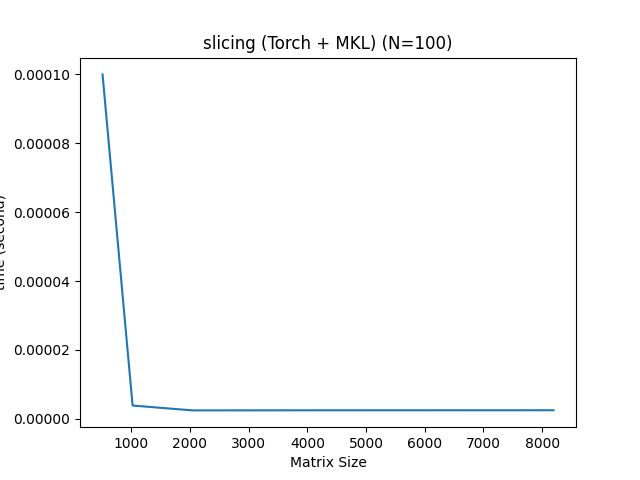
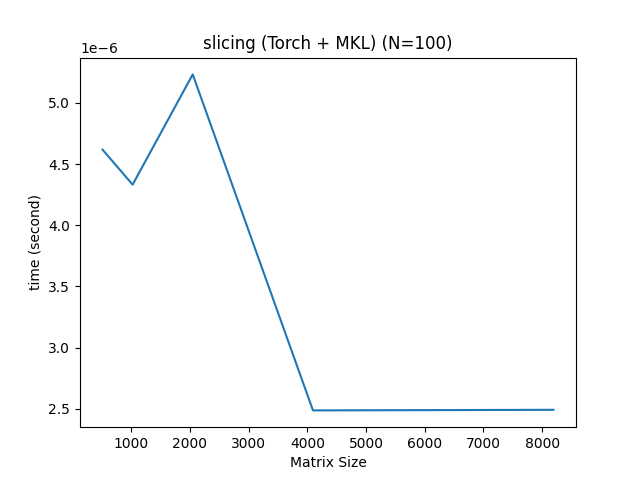
added: the latest result of benchmarks

diff --git a/benchmark/Result.md b/benchmark/Result.md
@@ -1,12 +1,22 @@
 # Benchmarking
 
-The latest benchmark is executed at 16:04:55 of Sunday, 3/26/2023 (GMT+9)
+The latest benchmark is executed at 20:26:37 of Sunday, 3/26/2023 (GMT+9)
 
 First, as a matrix arithmetic library, I measured benchmarks compared to NumPy as impartial as possible..
 
 Also, cl-waffe is also a deep learning framework. Benchmakrs compared to PyTorch is available.
 
 ⚠ cl-waffe and numpy are working on a different backends, openblas and mkl respectively. The author didn't know how to use numpy in OpenBLAS... So the result may be inaccuracy...
+
+** I think this benchmark is unfair in term of threads. Keep in mind that in practice cl-waffe still has a lot of room for optimisation and numpy/python can perform better**
+
+Also, cl-waffe is still under development and yet parallelised enough.
+
+To run benchmark on your computer:
+
+```shell
+$ lake benchmark-python
+```
 
 ## Machine Environments
 
@@ -23,7 +33,7 @@ all benchmark is working on single-float(np.float32)
 ### cl-waffe
 
 - Working on SBCL [2.1.0]
-- cl-waffe (latest, 16:04:55 of Sunday, 3/26/2023 (GMT+9))
+- cl-waffe (latest, 20:26:37 of Sunday, 3/26/2023 (GMT+9))
 
 ```lisp
 cl-user::*lla-configuration*
@@ -68,6 +78,11 @@ Supported SIMD extensions in this NumPy install:
     not found = AVX512F,AVX512CD,AVX512_KNL,AVX512_SKX,AVX512_CLX,AVX512_CNL,AVX512_ICL
 ```
 
+## Variables
+
+```export OPENBLAS_NUM_THREADS=4
+export MKL_NUM_THREADS=4```
+
 # Results
 
 ## cl-waffe and numpy
@@ -84,7 +99,7 @@ Applying broadcasting-add to A[K, K, 1] and B[1, K, K] for N times
 ![result](./results/broadcasting.png)
 ### slice
 
-Computes (!aref (!randn `(,K ,K)) t '(200 400)) for N times.
+Computes (!aref (!randn `(,K ,K)) '(200 400) t) for N times.
 
 ![result](./results/slice.png)
 ### DenseLayer
@@ -92,6 +107,7 @@ Computes (!aref (!randn `(,K ,K)) t '(200 400)) for N times.
 Computes denselayer (defined as out = `(!relu (!add (!matmul weight x) bias))`) for N times.
 
 ![result](./results/denselayer.png)
+
 ## cl-waffe and PyTorch
 
 coming soon...
